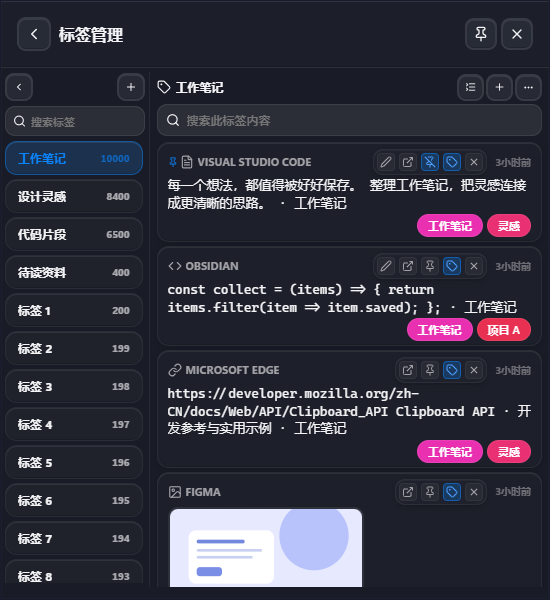
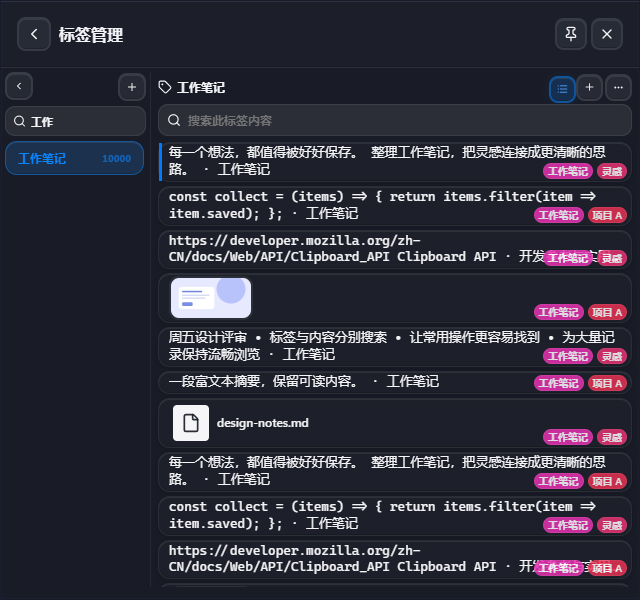
fix: 窄窗口使用标签下拉并始终显示管理页内容

diff --git a/src/features/tag/components/TagManager.tsx b/src/features/tag/components/TagManager.tsx
@@ -1,13 +1,14 @@
-import { lazy, Suspense, useCallback, useEffect, useMemo, useRef, useState, type KeyboardEvent, type ReactNode } from 'react';
+import { lazy, Suspense, useCallback, useEffect, useId, useMemo, useRef, useState, type KeyboardEvent, type ReactNode } from 'react';
 import { invoke } from '@tauri-apps/api/core';
 import { emit } from '@tauri-apps/api/event';
 import { Virtuoso, type VirtuosoHandle } from 'react-virtuoso';
-import { ArrowDownWideNarrow, ChevronLeft, ChevronRight, Edit2, List, ListCollapse, LoaderCircle, MoreHorizontal, Plus, Search, Tag, Trash2, X } from 'lucide-react';
+import { ArrowDownWideNarrow, ChevronDown, ChevronLeft, ChevronRight, Edit2, List, ListCollapse, LoaderCircle, MoreHorizontal, Plus, Search, Tag, Trash2, X } from 'lucide-react';
 import type { ClipboardEntry, Locale } from '../../../shared/types';
 import { errorMessage } from '../../../shared/lib/errorMessage';
 import { useTagLibrary } from '../hooks/useTagLibrary';
 import { TagDialog } from './TagDialog';
 import { TagHistoryRow } from './TagHistoryRow';
+import { useSettingsLayout } from '../../settings/hooks/useSettingsLayout';
 
 const QrCodeDialog = lazy(() => import('../../clipboard/components/QrCodeDialog'));
 
@@ -36,7 +37,9 @@ export default function TagManager({ t, theme, language = 'zh', compactMode = fa
     const library = useTagLibrary();
     const { selectedTag, selectTag, refresh } = library;
     const [tagSearch, setTagSearch] = useState('');
-    const [collapsed, setCollapsed] = useState(() => window.innerWidth < 500);
+    const { split } = useSettingsLayout();
+    const [collapsed, setCollapsed] = useState(false);
+    const [pickerOpen, setPickerOpen] = useState(false);
     const [menuOpen, setMenuOpen] = useState(false);
     const [selectedId, setSelectedId] = useState<number | null>(null);
     const [detailRevision, setDetailRevision] = useState(0);
@@ -49,6 +52,10 @@ export default function TagManager({ t, theme, language = 'zh', compactMode = fa
     const root = useRef<HTMLDivElement>(null);
     const menu = useRef<HTMLDivElement>(null);
     const menuButton = useRef<HTMLButtonElement>(null);
+    const picker = useRef<HTMLDivElement>(null);
+    const pickerButton = useRef<HTMLButtonElement>(null);
+    const pickerId = useId();
+    const tagListId = useId();
     const searchInput = useRef<HTMLInputElement>(null);
     const tagSearchInput = useRef<HTMLInputElement>(null);
     const tagList = useRef<VirtuosoHandle>(null);
@@ -83,10 +90,20 @@ export default function TagManager({ t, theme, language = 'zh', compactMode = fa
         menu.current?.querySelector<HTMLButtonElement>('button:not(:disabled)')?.focus();
         return () => document.removeEventListener('pointerdown', dismiss);
     }, [menuOpen]);
+    useEffect(() => { setPickerOpen(false); }, [split]);
+    useEffect(() => {
+        if (!pickerOpen) return;
+        const dismiss = (event: PointerEvent) => {
+            if (event.target instanceof Node && !picker.current?.contains(event.target) && !pickerButton.current?.contains(event.target)) setPickerOpen(false);
+        };
+        document.addEventListener('pointerdown', dismiss);
+        tagSearchInput.current?.focus();
+        return () => { document.removeEventListener('pointerdown', dismiss); focusSequence.current += 1; };
+    }, [pickerOpen]);
 
     const openDialog = useCallback((next: Dialog) => {
         detailSequence.current += 1;
-        setMenuOpen(false); setDialogError(null);
+        setMenuOpen(false); setPickerOpen(false); setDialogError(null);
         setValue(next.kind === 'renameTag' ? next.tag : next.kind === 'createTag' ? tagSearch.trim() : '');
         setDialog(next);
     }, [tagSearch]);
@@ -98,7 +115,11 @@ export default function TagManager({ t, theme, language = 'zh', compactMode = fa
         }).catch(() => { if (request === detailSequence.current) notifyError(); });
     }, [notifyError]);
     const deleteItem = useCallback((item: ClipboardEntry) => openDialog({ kind: 'deleteItem', item }), [openDialog]);
-    const closeDialog = () => { if (!busy) setDialog(null); };
+    const closeDialog = () => {
+        if (busy) return;
+        if (dialog?.kind === 'createTag' && !split) requestAnimationFrame(() => pickerButton.current?.focus());
+        setDialog(null);
+    };
 
     const focusVirtualItem = (selector: string, scroll: () => void) => {
         const request = ++focusSequence.current;
@@ -141,6 +162,7 @@ export default function TagManager({ t, theme, language = 'zh', compactMode = fa
             } else await invoke('delete_clipboard_entry', { id: current.item.id });
             if (!mounted.current) return;
             setDialog(null); changed();
+            if (current.kind === 'createTag' && !split) requestAnimationFrame(() => pickerButton.current?.focus());
             void emit('clipboard-changed').catch(console.error);
         } catch (reason) {
             if (mounted.current) setDialogError(current.kind === 'removeTag' && protectedTag(current.tag)
@@ -152,6 +174,15 @@ export default function TagManager({ t, theme, language = 'zh', compactMode = fa
     const handleKeyboard = (event: KeyboardEvent<HTMLDivElement>) => {
         const target = event.target as HTMLElement;
         if (target.closest('dialog')) return;
+        if (pickerOpen && event.key === 'Escape') {
+            event.preventDefault(); event.stopPropagation(); setPickerOpen(false); pickerButton.current?.focus(); return;
+        }
+        if (pickerOpen && target === tagSearchInput.current && ['ArrowDown', 'ArrowUp'].includes(event.key) && filteredTags.length) {
+            const next = event.key === 'ArrowDown' ? 0 : filteredTags.length - 1;
+            event.preventDefault();
+            focusVirtualItem(`[data-tag-index="${next}"]`, () => tagList.current?.scrollToIndex({ index: next, align: 'start' }));
+            return;
+        }
         if ((event.ctrlKey || event.metaKey) && event.key.toLowerCase() === 'f') {
             event.preventDefault(); searchInput.current?.focus(); return;
         }
@@ -183,10 +214,23 @@ export default function TagManager({ t, theme, language = 'zh', compactMode = fa
     const menuItem = (icon: ReactNode, label: string, action: () => void, disabled = false) => <button type="button"
         className="item-context-menu__item" role="menuitem" disabled={disabled}
         onClick={() => { setMenuOpen(false); action(); }}><span className="item-context-menu__item-label">{icon}{label}</span></button>;
+    const renderTagList = (dropdown: boolean) => <Virtuoso ref={tagList} id={tagListId} data={filteredTags} fixedItemHeight={38}
+        role={dropdown ? 'listbox' : undefined} aria-label={t('tags')} computeItemKey={(_, tag) => tag.name}
+        itemContent={(index, tag) => <div className="tag-manager-tag-cell"><button type="button" data-tag-index={index}
+            className={dropdown ? `dc-tag-filter-option tag-manager-tag${selectedTag === tag.name ? ' dc-tag-filter-active' : ''}`
+                : `settings-rail-item tag-manager-tag${selectedTag === tag.name ? ' is-active' : ''}`}
+            role={dropdown ? 'option' : undefined} aria-selected={dropdown ? selectedTag === tag.name : undefined}
+            onClick={() => {
+                selectTag(tag.name);
+                if (dropdown) { setPickerOpen(false); pickerButton.current?.focus(); }
+            }} aria-label={`${tag.name} · ${tag.count}`} aria-current={!dropdown && selectedTag === tag.name ? 'page' : undefined} title={`${tag.name} · ${tag.count}`}>
+            {collapsed && !dropdown ? <span className="tag-manager-tag-initial" aria-hidden="true">{Array.from(tag.name)[0]}</span>
+                : <><span className="tag-manager-tag-name">{tag.name}</span><small>{tag.count}</small></>}
+        </button></div>} />;
 
-    return <div ref={root} className={`tag-manager${collapsed ? ' tag-manager--collapsed' : ''}`} onKeyDown={handleKeyboard}
+    return <div ref={root} className={`tag-manager${split && collapsed ? ' tag-manager--collapsed' : ''}`} onKeyDown={handleKeyboard}
         onPointerDownCapture={() => { void invoke('activate_window_focus').catch(console.error); }}>
-        <aside className="settings-rail tag-manager-rail" aria-label={t('tags')}>
+        {split && <aside className="settings-rail tag-manager-rail" aria-label={t('tags')}>
             <div className="tag-manager-rail-tools">
                 <button type="button" className="btn-icon" onClick={() => setCollapsed(current => !current)}
                     title={t(collapsed ? 'tag_expand_navigation' : 'tag_collapse_navigation')} aria-label={t(collapsed ? 'tag_expand_navigation' : 'tag_collapse_navigation')}>
@@ -199,19 +243,34 @@ export default function TagManager({ t, theme, language = 'zh', compactMode = fa
                 : <div className="search-container tag-manager-rail-search"><Search className="search-icon" size={13} /><input ref={tagSearchInput} className="search-input"
                     value={tagSearch} onChange={event => setTagSearch(event.target.value)} placeholder={t('tag_search_label')} aria-label={t('tag_search_label')} /></div>}
             <div className="tag-manager-tag-list" aria-busy={library.metadataLoading}>
-                <Virtuoso ref={tagList} data={filteredTags} fixedItemHeight={38} computeItemKey={(_, tag) => tag.name}
-                    itemContent={(index, tag) => <div className="tag-manager-tag-cell"><button type="button" data-tag-index={index}
-                        className={`settings-rail-item tag-manager-tag${selectedTag === tag.name ? ' is-active' : ''}`}
-                        onClick={() => selectTag(tag.name)} aria-label={`${tag.name} · ${tag.count}`} aria-current={selectedTag === tag.name ? 'page' : undefined} title={`${tag.name} · ${tag.count}`}>
-                        {collapsed ? <span className="tag-manager-tag-initial" aria-hidden="true">{Array.from(tag.name)[0]}</span>
-                            : <><span className="tag-manager-tag-name">{tag.name}</span><small>{tag.count}</small></>}
-                    </button></div>} />
+                {renderTagList(false)}
             </div>
             {collapsed && <button type="button" className="btn-icon tag-manager-rail-add" title={t('tag_create')} aria-label={t('tag_create')} onClick={() => openDialog({ kind: 'createTag' })}><Plus size={16} /></button>}
-        </aside>
+        </aside>}
         <section className="tag-manager-content" aria-label={selectedTag ?? t('tag_manager')}>
             <div className="tag-manager-toolbar">
-                <span className="tag-manager-current" title={selectedTag ?? ''}><Tag size={14} /><span>{selectedTag ?? t('tags')}</span></span>
+                {split ? <span className="tag-manager-current" title={selectedTag ?? ''}><Tag size={14} /><span>{selectedTag ?? t('tags')}</span></span>
+                    : <button ref={pickerButton} type="button" className={`btn-icon tag-manager-current tag-manager-picker-trigger${pickerOpen ? ' active' : ''}`}
+                        aria-label={`${t('tags')}: ${selectedTag ?? t('tags')}`} title={selectedTag ?? t('tags')}
+                        aria-haspopup="dialog" aria-expanded={pickerOpen} aria-controls={pickerOpen ? pickerId : undefined}
+                        onClick={() => { setMenuOpen(false); setPickerOpen(current => !current); }}
+                        onKeyDown={event => {
+                            if (['ArrowDown', 'ArrowUp'].includes(event.key)) { event.preventDefault(); setMenuOpen(false); setPickerOpen(true); }
+                        }}><Tag size={14} /><span>{selectedTag ?? t('tags')}</span><ChevronDown size={13} /></button>}
+                {!split && pickerOpen && <div ref={picker} id={pickerId} role="dialog" aria-label={t('tag_search_label')}
+                    className="dc-tag-filter-picker tag-manager-picker" onBlur={event => {
+                        if (event.relatedTarget instanceof Node && !event.currentTarget.contains(event.relatedTarget) && event.relatedTarget !== pickerButton.current) setPickerOpen(false);
+                    }}>
+                    <div className="tag-manager-picker-tools">
+                        <div className="search-container tag-manager-picker-search"><Search className="search-icon" size={13} />
+                            <input ref={tagSearchInput} className="search-input" value={tagSearch} onChange={event => { focusSequence.current += 1; setTagSearch(event.target.value); }}
+                                placeholder={t('tag_search_label')} aria-label={t('tag_search_label')} role="combobox" aria-autocomplete="list" aria-expanded="true" aria-controls={tagListId} />
+                        </div>
+                        <button type="button" className="btn-icon" title={t('tag_create')} aria-label={t('tag_create')} onClick={() => openDialog({ kind: 'createTag' })}><Plus size={16} /></button>
+                    </div>
+                    {filteredTags.length ? <div className={`tag-manager-tag-list tag-manager-picker-size-${Math.min(filteredTags.length, 6)}`} aria-busy={library.metadataLoading}>{renderTagList(true)}</div>
+                        : <div id={tagListId} className="dc-tag-filter-empty" role="listbox" aria-label={t('tags')}><span role="status">{t(library.metadataLoading ? 'common_loading' : library.metadataError ? 'tag_load_failed' : 'tag_no_matching_tags')}</span></div>}
+                </div>}
                 <button type="button" className={`btn-icon${compactMode ? ' active' : ''}`} onClick={() => onCompactModeChange?.(!compactMode)}
                     disabled={!onCompactModeChange} title={t(compactMode ? 'tag_mode_detailed' : 'tag_mode_simple')}
                     aria-label={t(compactMode ? 'tag_mode_detailed' : 'tag_mode_simple')} aria-pressed={compactMode}>
@@ -248,7 +307,7 @@ export default function TagManager({ t, theme, language = 'zh', compactMode = fa
                     : library.items.length ? <div className="virtual-list-wrapper"><Virtuoso ref={list} key={`${selectedTag}:${library.query}:${library.sortBy}`} data={library.items}
                         computeItemKey={(_, item) => item.id} endReached={library.loadMore} increaseViewportBy={100}
                         itemContent={(index, item) => <TagHistoryRow key={`${item.id}:${library.contentRevision}:${detailRevision}`} item={item} index={index} selected={selectedId === item.id}
-                            compactMode={compactMode} isWindowPinned={isWindowPinned} privacyProtection={privacyProtection}
+                            compactMode={compactMode} isWindowPinned={isWindowPinned}
                             richTextSnapshotPreview={richTextSnapshotPreview} theme={theme} language={language} t={t} tagColors={colors}
                             onSelect={setSelectedId} onEdit={editItem} onDelete={deleteItem} onQRCode={setQrEntry} onChanged={changed} onError={notifyError} />}
                         components={{ Footer: () => library.loadingMore ? <div className="tag-manager-loading"><LoaderCircle size={15} className="tag-manager-spinner" /></div> : null }} /></div>

diff --git a/src/features/tag/components/TagHistoryRow.tsx b/src/features/tag/components/TagHistoryRow.tsx
@@ -9,7 +9,6 @@ interface TagHistoryRowProps {
     selected: boolean;
     compactMode: boolean;
     isWindowPinned: boolean;
-    privacyProtection: boolean;
     richTextSnapshotPreview: boolean;
     theme: string;
     language: Locale;
@@ -23,17 +22,14 @@ interface TagHistoryRowProps {
     onChanged: () => void;
 }
 
-export function TagHistoryRow({ item, index, selected, compactMode, isWindowPinned, privacyProtection,
+export function TagHistoryRow({ item, index, selected, compactMode, isWindowPinned,
     richTextSnapshotPreview, theme, language, t, tagColors, onSelect, onEdit, onDelete, onQRCode, onError, onChanged }: TagHistoryRowProps) {
     const [detail, setDetail] = useState<ClipboardEntry | null>(null);
-    const [revealed, setRevealed] = useState(false);
     const [editingTags, setEditingTags] = useState(false);
     const [tagInput, setTagInput] = useState('');
     const [tagBusy, setTagBusy] = useState(false);
     const fullItem = useRef<Promise<ClipboardEntry> | null>(null);
     const mounted = useRef(false);
-    const sensitive = item.tags.some(tag => ['sensitive', 'password', '密码'].includes(tag.toLowerCase()));
-    const hidden = privacyProtection && sensitive && !revealed;
 
     const loadFullItem = useCallback(() => {
         if (!fullItem.current) {
@@ -55,12 +51,12 @@ export function TagHistoryRow({ item, index, selected, compactMode, isWindowPinn
         let disposed = false;
         fullItem.current = null;
         setDetail(null);
-        if (!hidden && !item.content && (['image', 'file', 'video'].includes(item.content_type)
+        if (!item.content && (['image', 'file', 'video'].includes(item.content_type)
             || (!compactMode && item.content_type === 'rich_text'))) {
             void loadFullItem().then(next => { if (!disposed) setDetail(next); }).catch(() => { if (!disposed) onError(); });
         }
         return () => { disposed = true; };
-    }, [item, compactMode, hidden, loadFullItem, onError]);
+    }, [item, compactMode, loadFullItem, onError]);
 
     const copy = (pasteWithFormat = false, pasteImageAsBase64 = false) => {
         void invoke('copy_to_clipboard', { id: item.id, content: '', contentType: item.content_type,
@@ -79,18 +75,18 @@ export function TagHistoryRow({ item, index, selected, compactMode, isWindowPinn
     const rendered = detail ? { ...detail, tags: item.tags, is_pinned: item.is_pinned } : item;
 
     return <div className="tag-history-row" data-entry-index={index} data-entry-id={item.id} tabIndex={0}
-        aria-label={hidden ? t('privacy_protection') : item.preview.slice(0, 100)}
+        aria-label={item.preview.slice(0, 100)}
         onKeyDown={event => {
             if (event.target !== event.currentTarget) return;
             if (event.key === 'Enter') { event.preventDefault(); copy(); }
             if (event.key === 'Delete') { event.preventDefault(); onDelete(item); }
         }}>
         <ClipboardItem item={rendered} isSelected={selected} windowPinned={isWindowPinned}
-            isSensitiveHidden={hidden} isRevealed={revealed} isEditingTags={editingTags}
+            isSensitiveHidden={false} isRevealed={true} showSensitiveVisibilityControl={false} isEditingTags={editingTags}
             tagInput={tagInput} theme={theme} language={language} t={t} tagColors={tagColors}
             compactMode={compactMode} richTextSnapshotPreview={richTextSnapshotPreview} disableLayout
             onSelect={() => onSelect(item.id)} onCopy={copy}
-            onToggleReveal={event => { event.stopPropagation(); setRevealed(current => !current); }}
+            onToggleReveal={event => { event.stopPropagation(); }}
             onOpen={event => { event.stopPropagation(); void invoke('open_content', { id: item.id, content: '', contentType: item.content_type }).catch(onError); }}
             onTogglePin={event => { event.stopPropagation(); void invoke('toggle_clipboard_pin', { id: item.id, isPinned: !item.is_pinned }).then(onChanged).catch(onError); }}
             onDelete={event => { event.stopPropagation(); onDelete(item); }}

diff --git a/src/styles/components/tags.css b/src/styles/components/tags.css
@@ -67,7 +67,24 @@
 .tag-manager-current { display: flex; align-items: center; gap: 5px; flex: 1; min-width: 0; font-size: 12px; font-weight: 600; }
 .tag-manager-current svg { flex-shrink: 0; }
 .tag-manager-current > span { overflow: hidden; text-overflow: ellipsis; white-space: nowrap; }
-.tag-manager-toolbar > .btn-icon { width: 27px; height: 27px; flex-shrink: 0; }
+.tag-manager-toolbar > .btn-icon:not(.tag-manager-picker-trigger) { width: 27px; height: 27px; flex-shrink: 0; }
+.tag-manager .tag-manager-picker-trigger { flex: 1; width: auto; min-width: 0; height: 27px; padding: 3px 6px; justify-content: flex-start; text-align: left; }
+.tag-manager-picker-trigger > span { flex: 1; }
+.tag-manager-picker.dc-tag-filter-picker { top: calc(100% + 3px); left: 3px; right: 7px; padding: 7px; background: var(--dc-surface-raised); }
+.tag-manager-picker-tools { display: flex; align-items: center; gap: 5px; margin-bottom: 6px; }
+.tag-manager .tag-manager-picker-search { flex: 1; min-width: 0; padding: 0; margin: 0; }
+.tag-manager-picker-search .search-icon { left: 9px; }
+.tag-manager-picker-search .search-input { min-width: 0; width: 100%; height: 30px; padding: 5px 7px 5px 28px; font-size: 12px; }
+.tag-manager-picker-tools > .btn-icon { flex-shrink: 0; width: 30px; height: 30px; }
+.tag-manager-picker .tag-manager-tag-list { flex: none; max-height: max(38px, calc(100vh - 165px)); }
+.tag-manager-picker-size-1 { height: 38px; }
+.tag-manager-picker-size-2 { height: 76px; }
+.tag-manager-picker-size-3 { height: 114px; }
+.tag-manager-picker-size-4 { height: 152px; }
+.tag-manager-picker-size-5 { height: 190px; }
+.tag-manager-picker-size-6 { height: 228px; }
+.tag-manager-picker .tag-manager-tag-cell { padding-right: 0; }
+.tag-manager-picker .tag-manager-tag { gap: 8px; justify-content: space-between; }
 .tag-manager .tag-manager-search { margin: 2px 0 6px; padding: 0 7px 0 3px; }
 .tag-manager-search .search-icon { left: 12px; }
 .tag-manager-search .search-input { min-width: 0; height: 32px; padding: 6px 27px 6px 29px; font-size: 12px; }

diff --git a/src/features/clipboard/components/ClipboardItem.tsx b/src/features/clipboard/components/ClipboardItem.tsx
@@ -691,6 +691,7 @@ const ClipboardItem = ({
     windowPinned,
     isSensitiveHidden,
     isRevealed,
+    showSensitiveVisibilityControl = true,
     isEditingTags,
     tagInput,
     theme,
@@ -720,6 +721,7 @@ const ClipboardItem = ({
     loadFullItem,
     onEdit,
 }: ClipboardItemProps & {
+    showSensitiveVisibilityControl?: boolean;
     compactMode?: boolean;
     className?: string;
     onQRCode?: () => void;
@@ -1505,7 +1507,7 @@ const ClipboardItem = ({
                                 onEdit();
                             }}><Edit2 size={12} /></button>
                         )}
-                        {item.tags?.some(tag => ['sensitive', '密码', 'password'].includes(tag.toLowerCase())) && (
+                        {showSensitiveVisibilityControl && item.tags?.some(tag => ['sensitive', '密码', 'password'].includes(tag.toLowerCase())) && (
                             <button
                                 className={`btn-icon ${isRevealed ? "active" : ""}`}
                                 onClick={onToggleReveal}

diff --git a/docs/tag-theme-performance.md b/docs/tag-theme-performance.md
@@ -8,7 +8,8 @@
 
 这个基线中，Liquid Glass 已关闭标签卡片的 backdrop 模糊，所以不能把此前的 `blur(14px)` 描述直接当作当前所有主题的行为。新版直接复用主页 `ClipboardItem`，保留各主题原有卡片材质，虚拟化让渲染数量随视口而不是总条目数增长；不另外给标签页叠一套卡片模糊。
 
-- 标签页采用设置式左边栏和主页逐行卡片，使用主页面相同的复杂/简洁模式、悬浮按钮和右键菜单。标签导航、内容和主搜索标签选择器均使用 react-virtuoso；每页 60 条，后端拒绝超过 100 条的请求。滚动自动翻页，不提供刷新、加载更多或标签颜色设置。
+- 标签页采用主页逐行卡片，使用主页面相同的复杂/简洁模式、悬浮按钮和右键菜单。布局复用设置页的 560px 切换点：宽窗口显示侧栏，窄窗口从当前标签名展开带搜索和创建入口的下拉栏。标签导航、内容和主搜索标签选择器均使用 react-virtuoso；每页 60 条，后端拒绝超过 100 条的请求。滚动自动翻页，不提供刷新、加载更多或标签颜色设置。
+- 标签页作为内容管理入口始终显示敏感条目，复杂/简洁模式均无显示/隐藏开关；主历史页的隐私显示和 MCP 过滤保持原有行为。隐私保护开关仍决定能否破坏性删除系统敏感标签。
 - 列表只传输有限预览及元数据；全文、富文本和内嵌图片在需要时读取。文本编辑从完整正文开始，避免把预览覆盖到原文。
 - 查询放到阻塞任务线程；选择或搜索变化后，丢弃旧请求。短时间内的剪贴板事件合并刷新，颜色变更只刷新标签元数据。
 - 20 个公开语义 token 由六套内置主题分别映射；新标签控件消费共享契约。旧控件的材质、几何和状态仍保留现有变量与规则，不宣称整个 CSS 已消除 `!important`。
@@ -20,7 +21,7 @@
 
 | 项目 | 结果 |
 | --- | --- |
-| 默认窗口内容与左栏（24 个主题/模式组合） | 3–8 张卡片、5–6 个标签按钮；卡片高度由内容决定 |
+| 默认窗口内容与标签导航 | 窄窗口不挂载侧栏，打开下拉时只挂载视口内选项；卡片高度由内容决定 |
 | 主搜索标签下拉 | 6 个选项，完整目录仍可搜索 |
 | 初次内容查询 | 1 页；滚动后请求下一页，offset 从 0 到 60 |
 | 标签页新增 backdrop 层 | 0；主页卡片保留各主题既有材质 |
@@ -35,7 +36,13 @@
 
 ![标签管理器默认窗口，使用一万条合成记录演示](./images/tag-manager.png)
 
+![窄窗口当前标签名下的搜索与创建入口](./images/tag-manager-picker.png)
+
 ![较宽窗口与 Liquid Glass 暗色主题](./images/tag-manager-wide.png)
+
+响应式交互检查覆盖 559/560px 边界、实时缩放、搜索全部 2,505 个标签、空结果创建、取消后的焦点恢复、选择后关闭、键盘操作及外部点击关闭。跨布局保留当前标签和内容查询，不额外查询历史。六主题×双模式×380/260px 高度的 24 组下拉检查均未越界或出现横向滚动，选项挂载数量不超过 8。
+
+敏感内容显示另检查 `sensitive`、`SENSITIVE`、`password`、`密码` × 文本/代码/富文本/图片 × 复杂/简洁模式共 32 组：标签页内容可见且无隐藏按钮，简洁模式悬浮预览读取完整正文；同一共享卡片组件的主列表对照仍保留遮挡与眼睛按钮。浏览器检查没有页面异常。
 
 六套内置主题分别检查亮/暗模式。对相同组件结构与内容，独立验证在 Edge 中切换改造前后 CSS，比较实际历史行、紧凑列表、设置、菜单、确认框和 Quick Paste 的 432 组计算样式、72 组同机截图，结果无差异；覆盖 Windows/Linux CSS 类与透明度 0/65/100%。这是浏览器中的原有材质/几何对照，不是原生合成器或 WebKitGTK 测试，也不是承诺页面结构没有变化。标签布局、导入入口和设置说明文字清理均属于用户要求的功能改动。
 

diff --git a/README.md b/README.md
@@ -57,7 +57,7 @@ dzc --version
 
 ## 标签与自定义主题
 
-标签管理器使用设置页式左边栏与主页行卡片，支持复杂/简洁模式、悬浮操作和右键菜单；标签与内容均虚拟化，滚动自动翻页。移除普通标签保留记录，编辑时读取完整正文。隐私保护关闭时可确认删除「密码」「sensitive」标签及其全部内容；重新开启时恢复系统标签，已删内容不会恢复。
+标签管理器使用主页行卡片，支持复杂/简洁模式、悬浮操作和右键菜单；宽窗口显示设置页式侧栏，低于设置页相同的 560px 切换点时，从当前标签名展开带搜索和创建入口的下拉栏。标签与内容均虚拟化，滚动自动翻页。标签页始终显示内容，包括敏感条目，不提供隐藏开关。移除普通标签保留记录，编辑时读取完整正文。隐私保护关闭时可确认删除「密码」「sensitive」标签及其全部内容；重新开启时恢复系统标签，已删内容不会恢复。
 
 设置的「外观」只提供内置主题选择和文件导入。导入包包含完整 CSS，可定义材质、形状、布局、阴影与控件状态，禁止外部资源。详见[主题指南](./docs/THEMES.md)，Agent 可使用 [dezirclip-theme Skill](./skills/dezirclip-theme/SKILL.md) 编写主题；也可从[森林示例](./skills/dezirclip-theme/assets/forest.theme.json)开始。
 
@@ -190,7 +190,7 @@ DezirClip 使用 GPL-3.0，源自同样使用 GPL-3.0 的 [jimuzhe/tiez-clipboar
 
 ## English
 
-The tag manager shares the settings sidebar and main history rows, with detailed/compact modes, hover actions, context menus and automatic paged scrolling. Removing ordinary tags keeps their items. With privacy protection off, confirmed deletion can clear system sensitive tags and their contents; enabling protection recreates the tags. Appearance offers built-in themes and imported full CSS packages with external resources blocked. See the [theme guide](./docs/THEMES.md) and [theme authoring Skill](./skills/dezirclip-theme/SKILL.md).
+The tag manager shares the main history rows, with detailed/compact modes, hover actions, context menus and automatic paged scrolling. Below the settings page's shared 560px breakpoint, the wide sidebar becomes a dropdown under the current tag name, with search and tag creation. Tag management always displays sensitive content and has no visibility toggle. Removing ordinary tags keeps their items. With privacy protection off, confirmed deletion can clear system sensitive tags and their contents; enabling protection recreates the tags. Appearance offers built-in themes and imported full CSS packages with external resources blocked. See the [theme guide](./docs/THEMES.md) and [theme authoring Skill](./skills/dezirclip-theme/SKILL.md).
 
 DezirClip is a local clipboard workspace for Windows and Linux X11, forked from [jimuzhe/tiez-clipboard](https://github.com/jimuzhe/tiez-clipboard). This fork removes macOS and cloud/network features, adds X11 support, custom CSS themes and WebView memory controls, and provides a shared Rust storage core for the GUI and `dzc` CLI. Full Wayland desktop support remains deferred.
 
